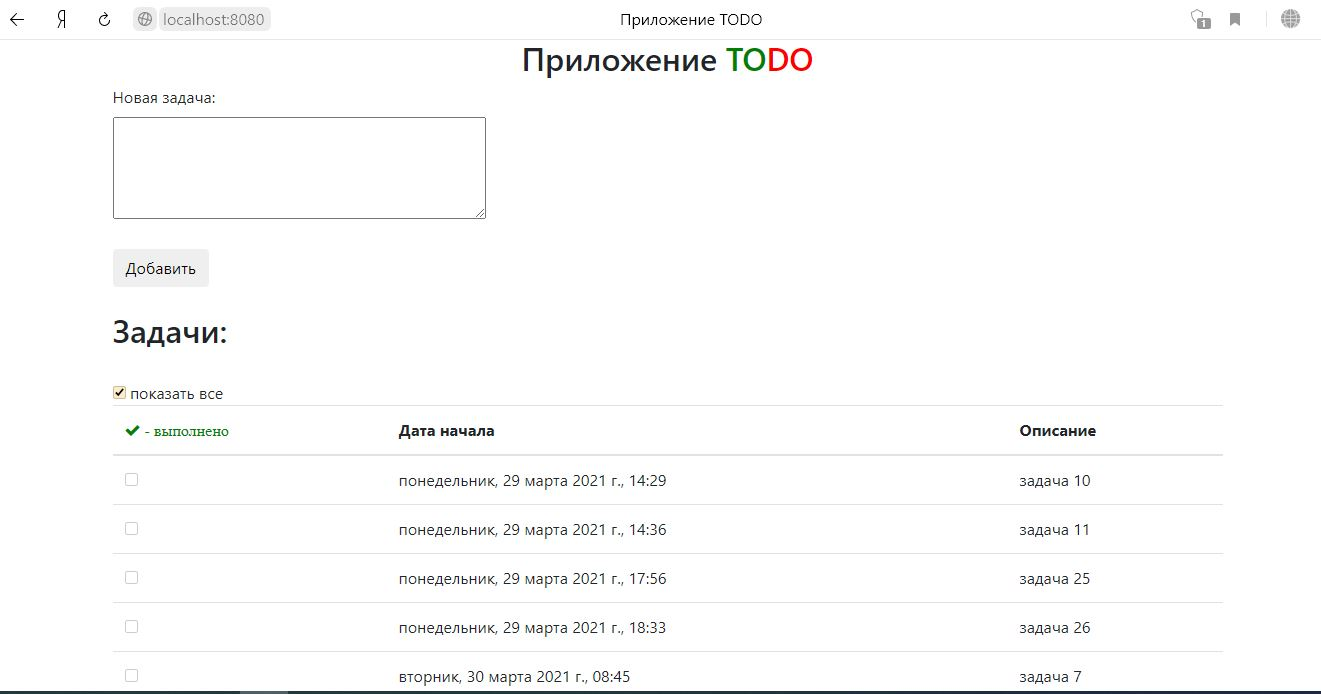
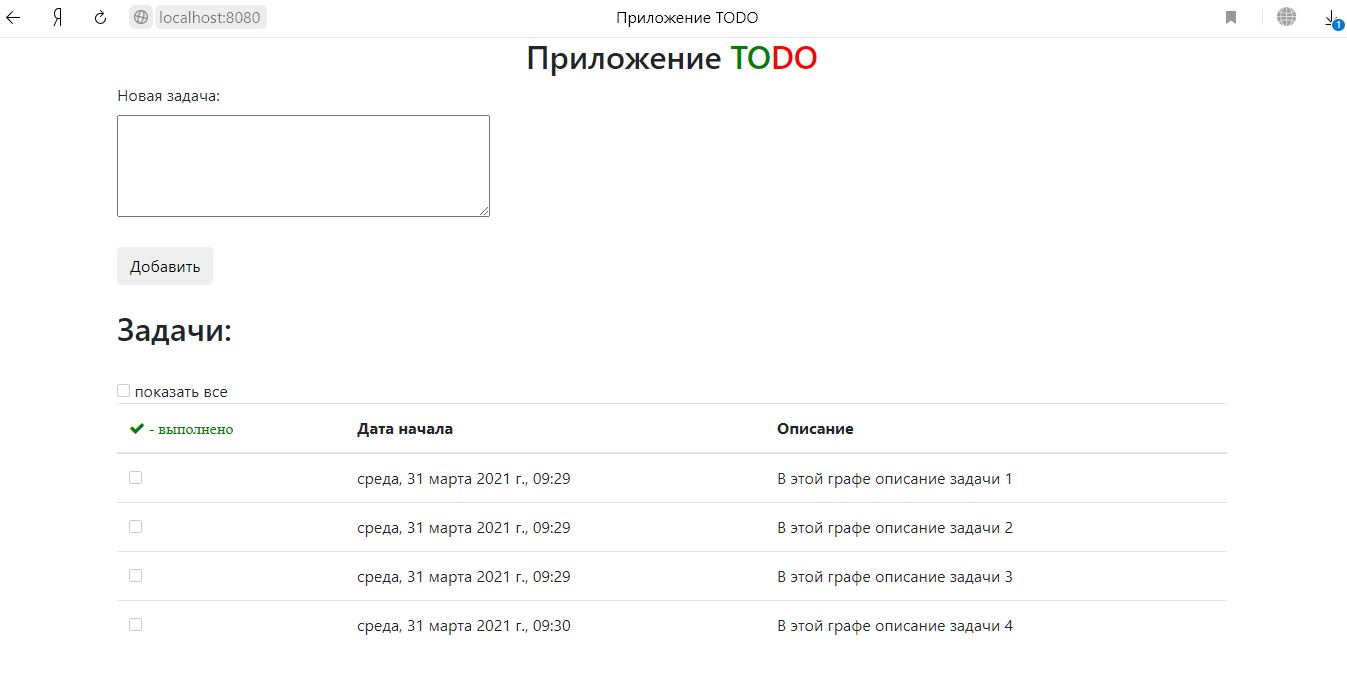
2. Создать TODO list [#477018]

diff --git a/src/main/java/ru/job4j/todo/servlets/DoTaskServlet.java b/src/main/java/ru/job4j/todo/servlets/DoTaskServlet.java
@@ -30,10 +30,13 @@ public class DoTaskServlet extends HttpServlet {
         } catch (UnsupportedEncodingException ex) {
             ex.printStackTrace();
         }
+        //
+        //
         HbmTODO hbmTODO = new HbmTODO();
-        Task found = hbmTODO.findById(stringTrimmed);
-        hbmTODO.done(found);
-
+        if (!"0".equals(stringTrimmed)) {
+            Task found = hbmTODO.findById(stringTrimmed);
+            hbmTODO.done(found);
+        }
         List<Task> list = hbmTODO.findByUndone();
 
         ObjectMapper mapper = new ObjectMapper();

diff --git a/README.md b/README.md
@@ -8,8 +8,9 @@
 Интерфейс приложения:
 
 ![alt text](https://raw.githubusercontent.com/Alexey710/job4j_todo/master/images/main_menu.JPG)
-
+![alt text](https://raw.githubusercontent.com/Alexey710/job4j_todo/master/images/main_menu2.JPG)
 ![alt text](https://raw.githubusercontent.com/Alexey710/job4j_todo/master/images/validation.JPG)
+
 
 
 [![Build Status](https://travis-ci.org/Alexey710/job4j_todo.svg?branch=master)](https://travis-ci.org/Alexey710/job4j_todo)
